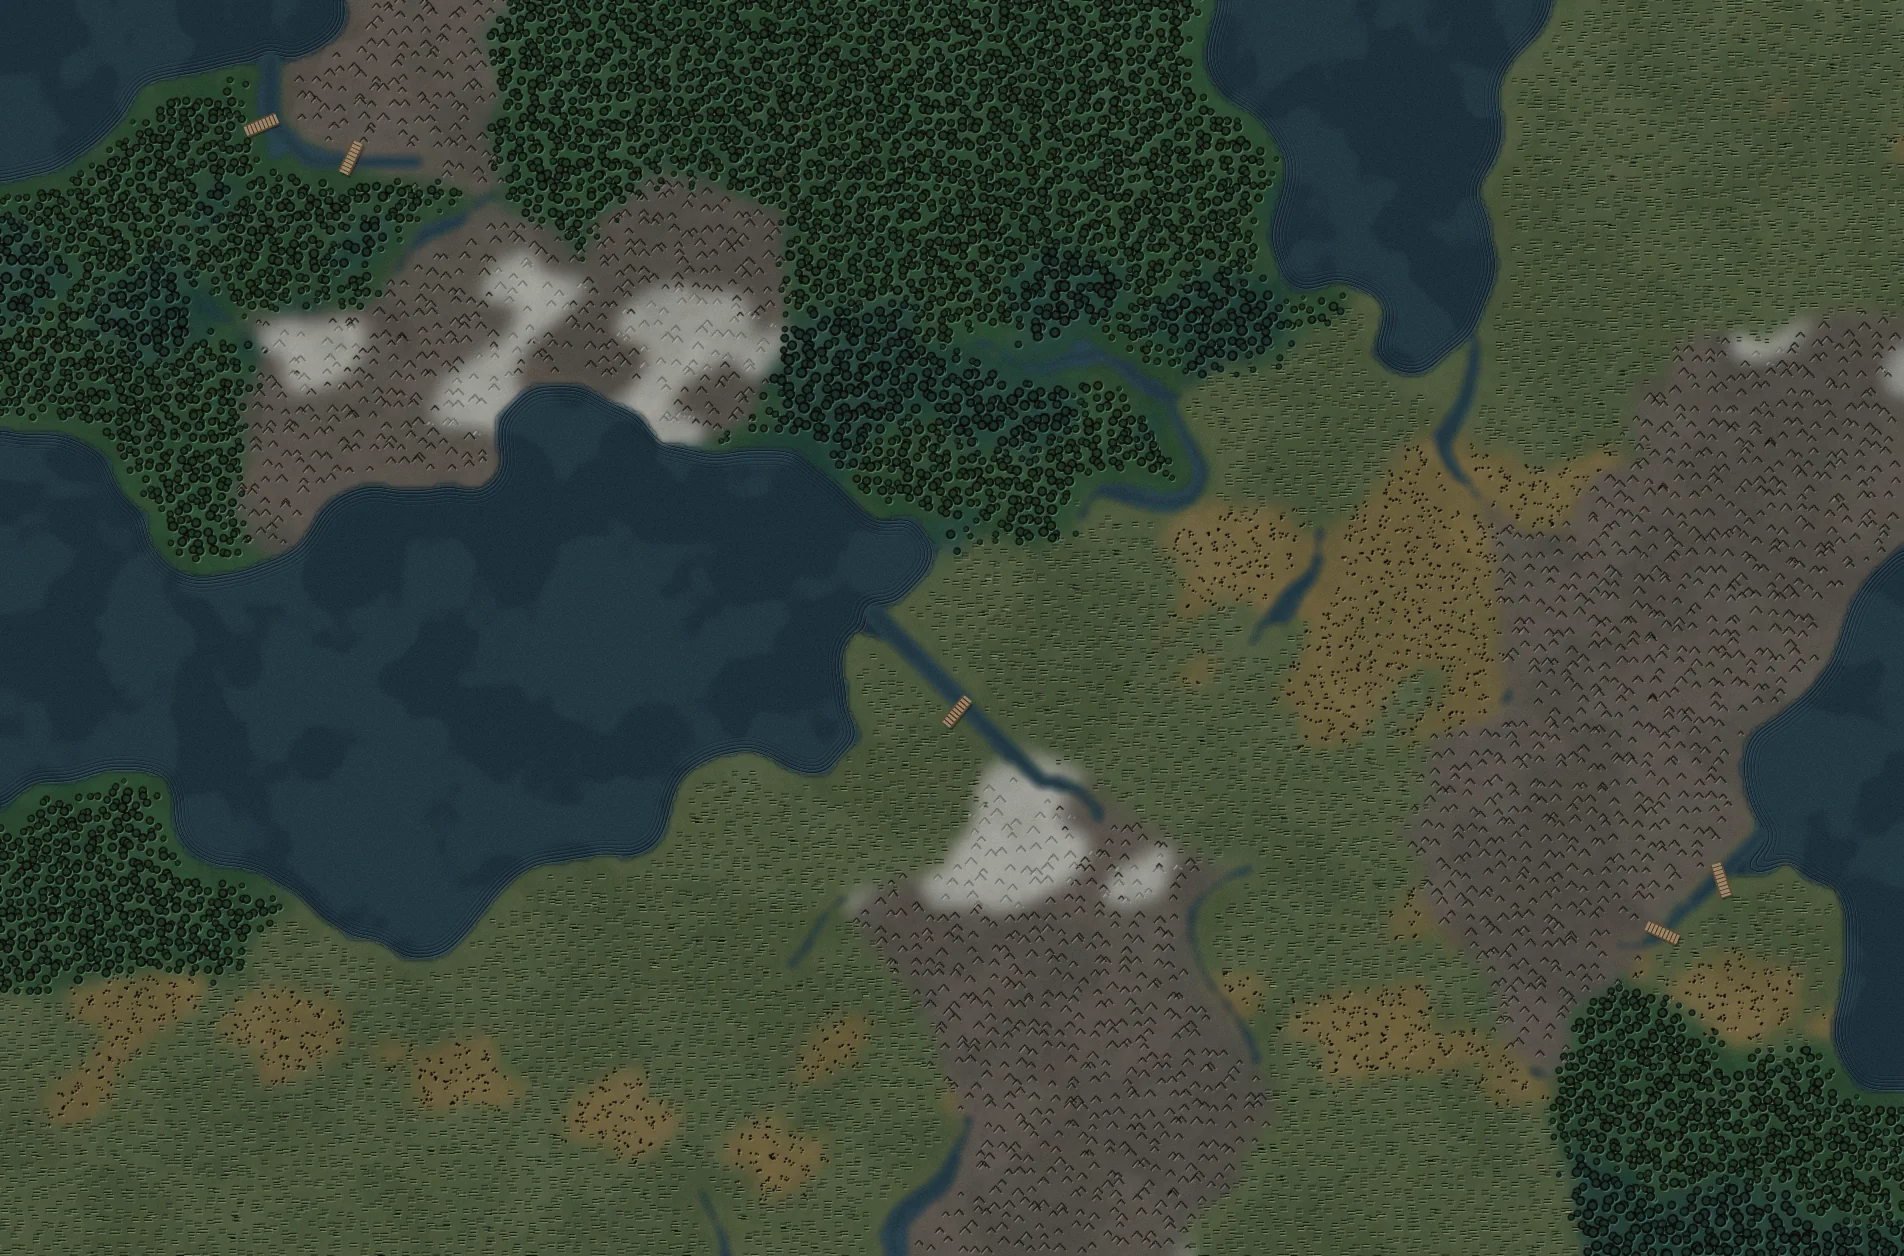
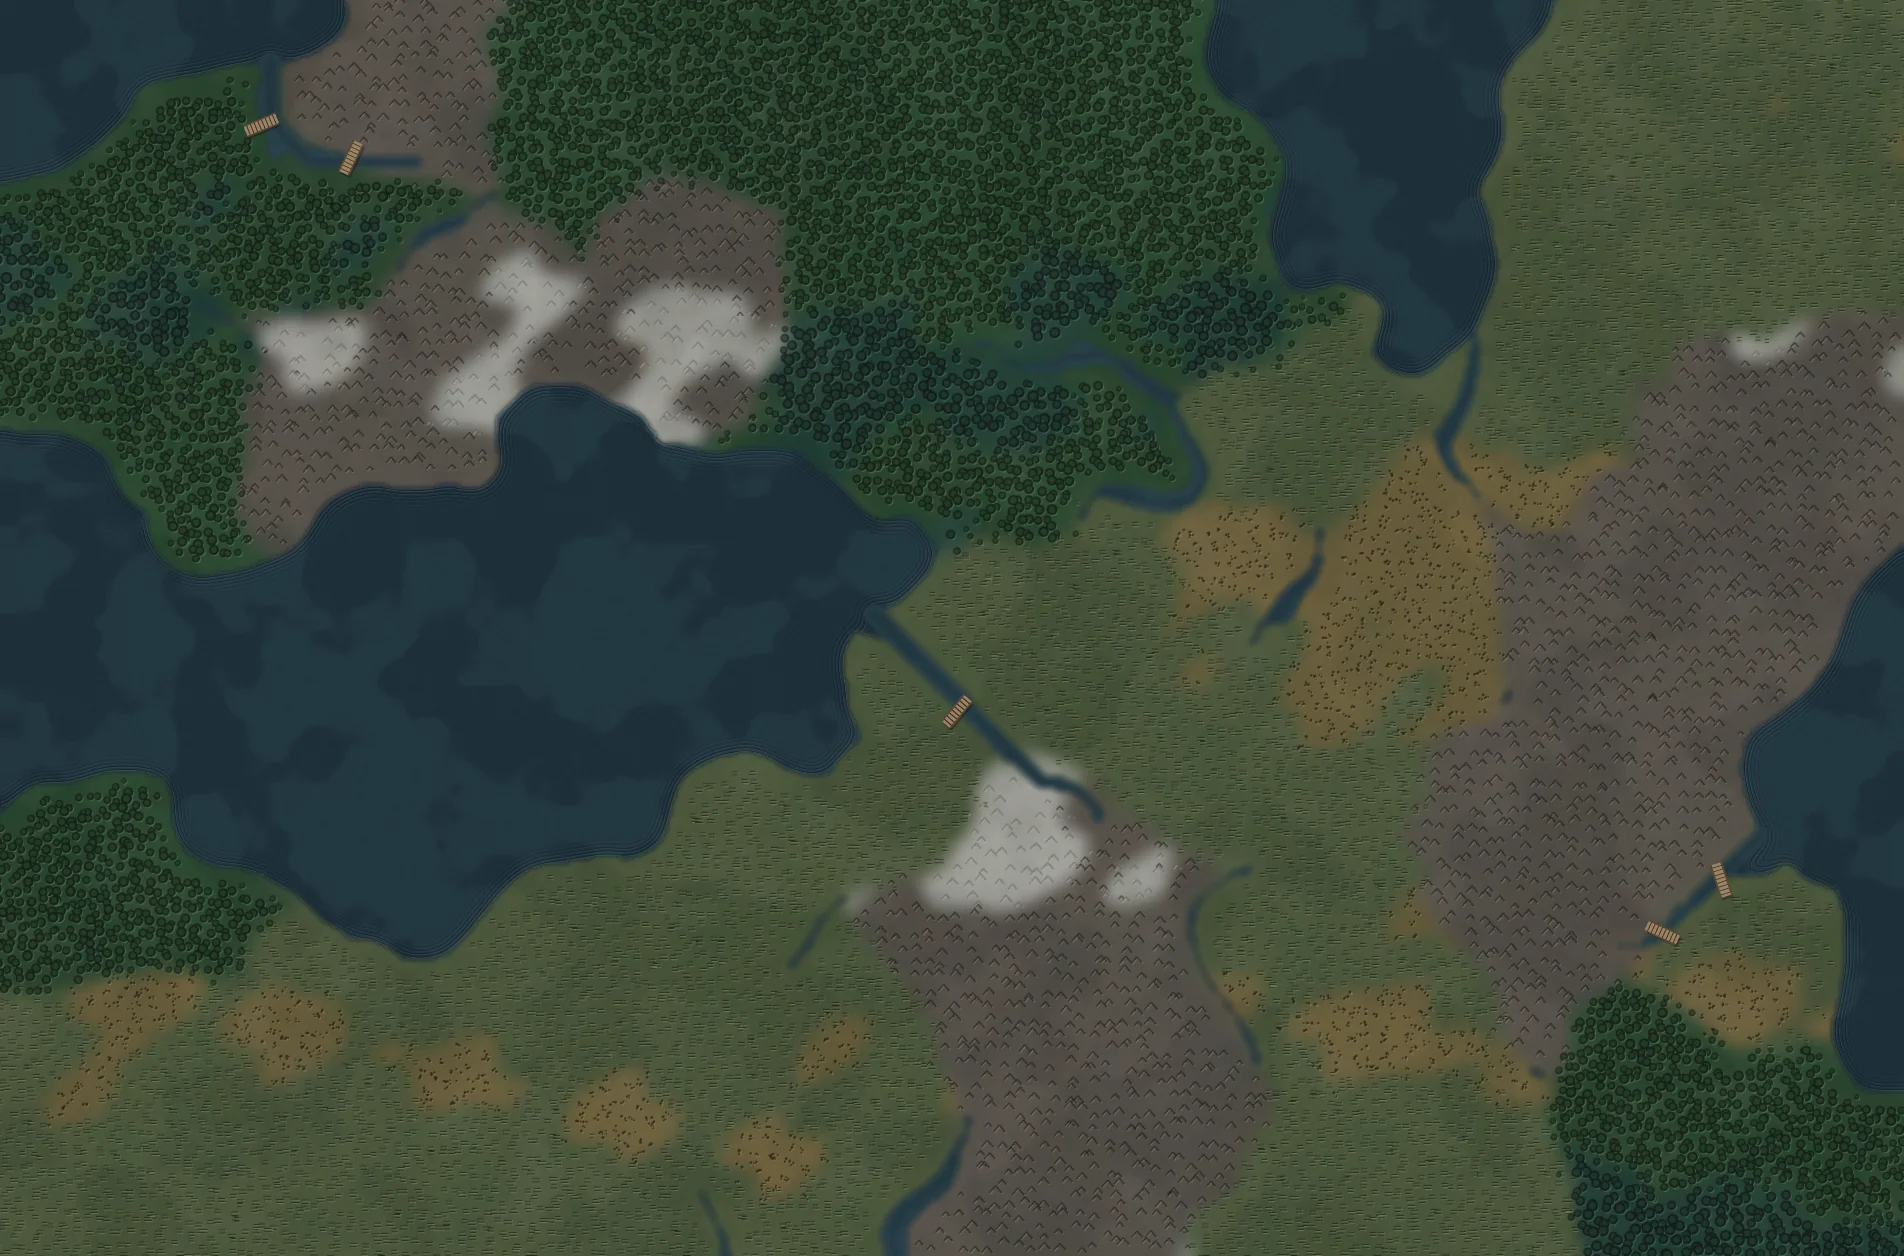
feat(client): the menu backgrounds take the softened lines of #865, marches re-baked (#866)

diff --git a/apps/client/src/app/menuPaint.ts b/apps/client/src/app/menuPaint.ts
@@ -12,9 +12,17 @@
  * Decoration only: the owners come from the script of `menuCaptures.ts`, never from a game.
  */
 import type { FloodLook } from '../render/captureLayout.ts';
+import { SOFT } from '../render/softness.ts';
 import { CAPTURE } from '../render/style.ts';
 import type { Point } from './menuScene.ts';
-import { MENU_BORDER, MENU_LANE, MENU_RING, menuCity, type MenuLand } from './menuPieces.ts';
+import {
+  MENU_BORDER,
+  MENU_INK,
+  MENU_LANE,
+  MENU_RING,
+  menuCity,
+  type MenuLand,
+} from './menuPieces.ts';
 import type { Owners, Scene, SceneNode } from './menuScene.ts';
 
 /** The token colours the map layer takes from the page (`app.css`). */
@@ -36,7 +44,8 @@ export const FALLBACK_COLOURS: MapColours = {
   neutral: '#b3a88f',
   neutralFill: '#221e18',
   cut: '#050403',
-  ink: '#ece4d1',
+  // The ink of the map's lines, darker and warmer than the text's ivory (#865).
+  ink: MENU_INK,
   plate: '#0e0c09',
   casing: '#060504',
   display: "'Cinzel', 'Times New Roman', serif",
@@ -54,19 +63,46 @@ export function readColours(element: Element): MapColours {
     neutral: token('--neutral', F.neutral),
     neutralFill: token('--neutral-fill', F.neutralFill),
     cut: token('--cut', F.cut),
-    ink: token('--ink', F.ink),
+    ink: F.ink,
     plate: token('--plate', F.plate),
     casing: token('--casing', F.casing),
     display: token('--font-display', F.display),
   };
 }
 
-/** The lanes of a road (#839, the match's at level 1): light lanes on a band or dashed on a casing. */
+/**
+ * The lanes of a road (#839, the match's at level 1): light lanes on a band or dashed on a casing,
+ * softened as the match's (`SOFT.line`, #865).
+ */
 export const ROAD_LOOK = {
-  own: { casing: 3.6, casingAlpha: 0.62, lane: '#e6edf3', laneAlpha: 0.95, dash: null },
-  enemy: { casing: 3.6, casingAlpha: 0.62, lane: '#e6edf3', laneAlpha: 0.95, dash: null },
-  buffer: { casing: 3.6, casingAlpha: 0.4, lane: '#aab2bd', laneAlpha: 0.95, dash: [7, 5] },
-  fog: { casing: 3, casingAlpha: 0.3, lane: '#aab2bd', laneAlpha: 0.75, dash: [1.5, 4.5] },
+  own: {
+    casing: 3.6,
+    casingAlpha: 0.62 * SOFT.line,
+    lane: '#e6edf3',
+    laneAlpha: 0.95 * SOFT.line,
+    dash: null,
+  },
+  enemy: {
+    casing: 3.6,
+    casingAlpha: 0.62 * SOFT.line,
+    lane: '#e6edf3',
+    laneAlpha: 0.95 * SOFT.line,
+    dash: null,
+  },
+  buffer: {
+    casing: 3.6,
+    casingAlpha: 0.4,
+    lane: '#aab2bd',
+    laneAlpha: 0.95 * SOFT.line,
+    dash: [7, 5],
+  },
+  fog: {
+    casing: 3,
+    casingAlpha: 0.3,
+    lane: '#aab2bd',
+    laneAlpha: 0.75 * SOFT.line,
+    dash: [1.5, 4.5],
+  },
 } as const;
 
 export type RoadKind = keyof typeof ROAD_LOOK;
@@ -179,7 +215,7 @@ function drawLand(
   alpha: number,
 ): void {
   if (alpha <= 0) return;
-  const px = 1 / Math.max(0.05, p.scene.scale);
+  const px = SOFT.weight / Math.max(0.05, p.scene.scale);
   const k = p.k;
   const B = MENU_BORDER;
   c.save();
@@ -202,7 +238,7 @@ function drawLand(
     c.strokeStyle = p.colours.cut;
     c.lineWidth = Math.max(B.cut.width * k, px);
     c.stroke(new Path2D(part.cut));
-    c.globalAlpha = alpha;
+    c.globalAlpha = alpha * B.rule.alpha;
     c.strokeStyle = colour;
     c.lineWidth = Math.max(B.rule.width * k, px);
     c.stroke(new Path2D(part.rule));
@@ -232,7 +268,7 @@ function drawRoad(
   kind: RoadKind,
 ): void {
   if (to - from <= 1e-6) return;
-  const px = 1 / Math.max(0.05, p.scene.scale);
+  const px = SOFT.weight / Math.max(0.05, p.scene.scale);
   const k = p.k;
   const look = ROAD_LOOK[kind];
   const x0 = a.x + (b.x - a.x) * from;

diff --git a/apps/client/src/app/menuPieces.ts b/apps/client/src/app/menuPieces.ts
@@ -11,18 +11,23 @@ import type { GeoFile } from '../map/geography.ts';
 import type { MapFile } from '../protocol.gen.ts';
 import { capacityRing, ringRadius } from '../render/cityLayout.ts';
 import { territoryBorders, type Border } from '../render/regionLayout.ts';
+import { SOFT } from '../render/softness.ts';
 import { ROAD_LANE } from '../render/style.ts';
 import { territoryOf, type Territory } from '../render/territory.ts';
 import { menuCityRadius, type Point } from './menuScene.ts';
 
+/** The ink of the map's lines as a CSS colour (`SOFT.ink`, #865): darker and warmer than the text's. */
+export const MENU_INK = `#${SOFT.ink.toString(16).padStart(6, '0')}`;
+
 /**
  * The Border band and the engraved border of the match (`BORDER_BAND`, `BORDER_ENGRAVING` of
- * `render/engraving.ts`, kept here as numbers: that module carries PixiJS).
+ * `render/engraving.ts`, kept here as numbers: that module carries PixiJS), softened as the match's
+ * (`SOFT`, #865): the hatch and the light lines fainter.
  */
 export const MENU_BORDER = {
-  band: { depth: 13, pitch: 3.2, width: 0.85, alpha: 0.85 },
-  cut: { inset: 0, width: 1.6, alpha: 0.85 },
-  rule: { inset: 2.4, width: 1.1 },
+  band: { depth: 13, pitch: 3.2, width: 0.85, alpha: 0.85 * SOFT.hatch },
+  cut: { inset: 0, width: 1.6, alpha: 0.85 * SOFT.line },
+  rule: { inset: 2.4, width: 1.1, alpha: SOFT.line },
   rule2: { inset: 4.6, width: 1.1 },
   beads: { inset: 5, step: 5.5, radius: 0.95 },
 } as const;

diff --git a/apps/client/src/app/menuMotion.ts b/apps/client/src/app/menuMotion.ts
@@ -32,6 +32,7 @@ import {
   type Point,
   type Scene,
 } from './menuScene.ts';
+import { MENU_INK } from './menuPieces.ts';
 import type { Story } from './menuStory.ts';
 
 export interface MotionClock {
@@ -61,7 +62,8 @@ export interface Palette {
 
 export const FALLBACK_PALETTE: Palette = {
   bg: '#16130f',
-  paper: '#ece4d1',
+  // The ink of the pieces' lines, darker and warmer than the text's ivory (#865).
+  paper: MENU_INK,
   dim: '#ada38f',
   you: '#86a6ea',
   enemy: '#e5785e',
@@ -76,7 +78,7 @@ export function readPalette(element: Element): Palette {
     style.getPropertyValue(name).trim() || fallback;
   return {
     bg: token('--bg', FALLBACK_PALETTE.bg),
-    paper: token('--paper', FALLBACK_PALETTE.paper),
+    paper: FALLBACK_PALETTE.paper,
     dim: token('--text-dim', FALLBACK_PALETTE.dim),
     you: token('--you', FALLBACK_PALETTE.you),
     enemy: token('--enemy', FALLBACK_PALETTE.enemy),

diff --git a/apps/client/src/app/MenuBackdrop.svelte b/apps/client/src/app/MenuBackdrop.svelte
@@ -30,7 +30,7 @@
     type FloodPaint,
     type MapPaint,
   } from './menuPaint.ts';
-  import { menuCity, menuLand, menuTerritory, type MenuLand } from './menuPieces.ts';
+  import { MENU_INK, menuCity, menuLand, menuTerritory, type MenuLand } from './menuPieces.ts';
   import {
     BAR_BOTTOM,
     FOG_TOP_FADE,
@@ -367,6 +367,7 @@
   bind:this={host}
   aria-hidden="true"
   data-map={ready ? 'ready' : 'pending'}
+  style:--map-ink={MENU_INK}
 >
   {#if scene !== null && map !== null}
     <canvas class="map layer" bind:this={mapCanvas}></canvas>

diff --git a/apps/client/src/app/MenuCityMark.svelte b/apps/client/src/app/MenuCityMark.svelte
@@ -50,7 +50,7 @@
   }
   .ring-room {
     fill: none;
-    stroke: var(--ink);
+    stroke: var(--map-ink, var(--ink));
     stroke-opacity: 0.85;
   }
   .city-cut {
@@ -74,7 +74,7 @@
   }
   .city-ink {
     fill: none;
-    stroke: var(--ink);
+    stroke: var(--map-ink, var(--ink));
     stroke-width: 1.1;
   }
   .city-ink.thin {
@@ -82,7 +82,7 @@
   }
   .star {
     fill: var(--casing);
-    stroke: var(--ink);
+    stroke: var(--map-ink, var(--ink));
     stroke-width: 1.2;
     stroke-linejoin: round;
   }
